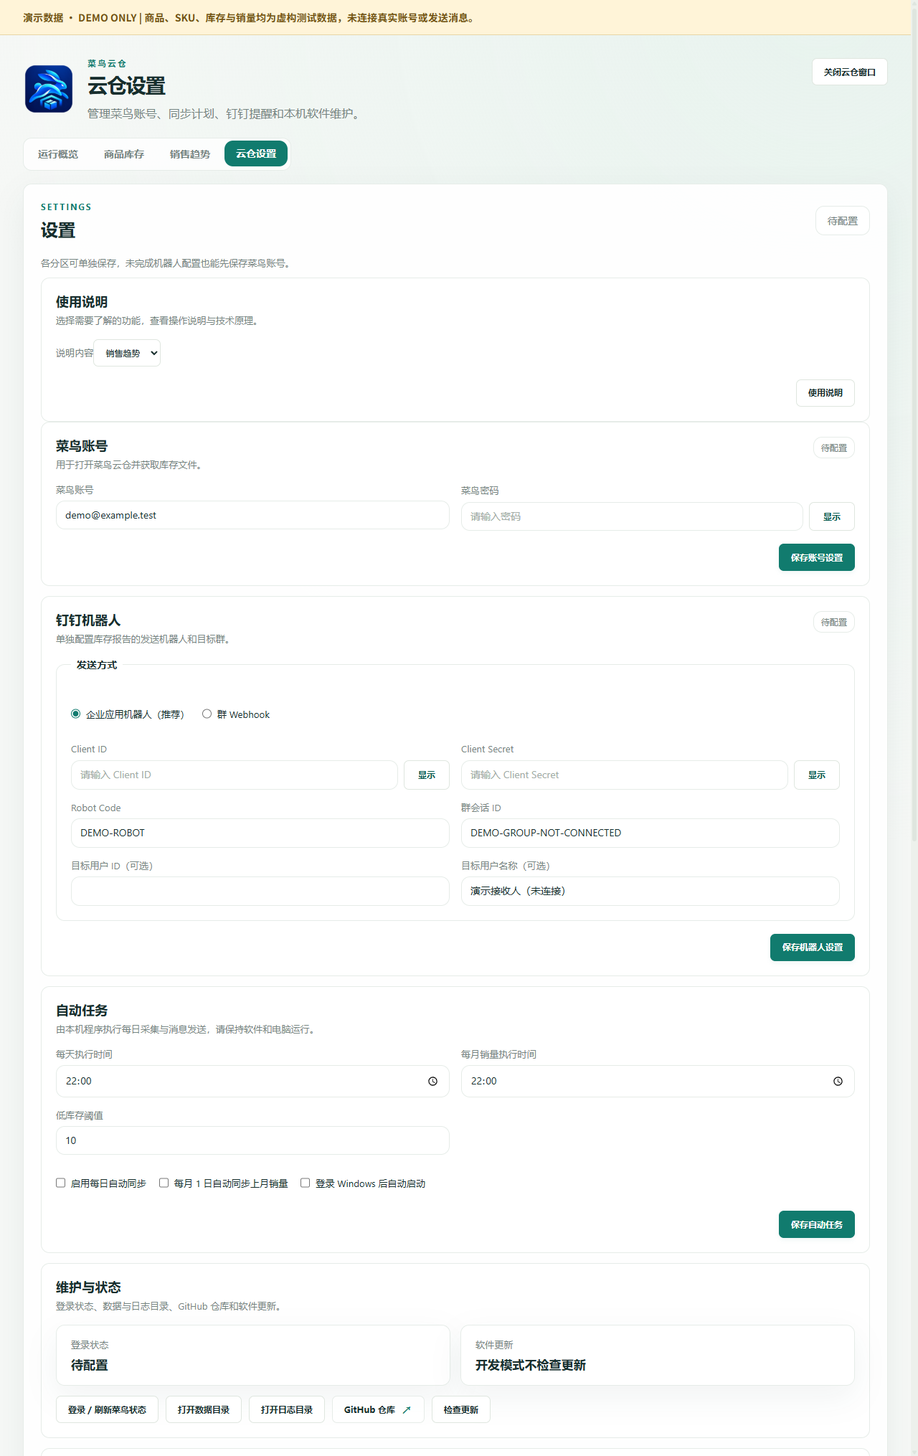
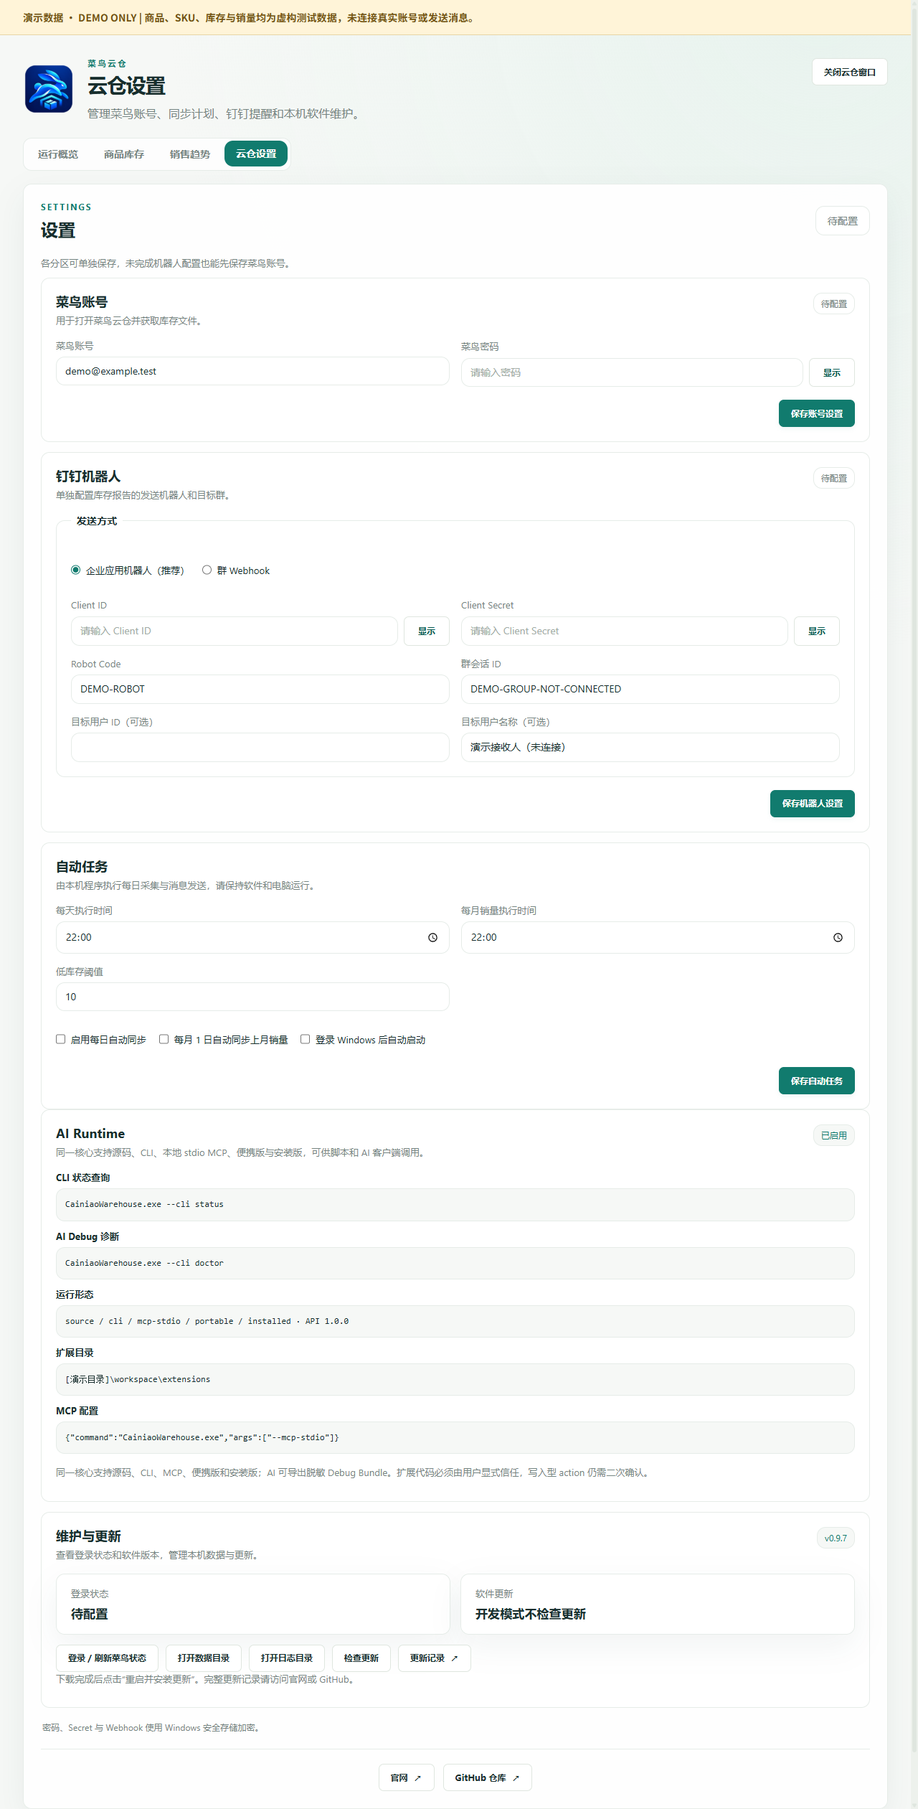
Simplify warehouse settings maintenance updates and official links

diff --git a/windows/workbench/desktop/renderer/index.html b/windows/workbench/desktop/renderer/index.html
@@ -172,20 +172,7 @@
       </div>
       <p class="field-help">各分区可单独保存，未完成机器人配置也能先保存菜鸟账号。</p>
 
-      <section class="settings-card" id="featureHelpSettings">
-        <div class="settings-card-heading"><div><h3>使用说明</h3><p>选择需要了解的功能，查看操作说明与技术原理。</p></div></div>
-        <div class="form-grid">
-          <label>说明内容<select id="featureHelpTopic">
-            <option value="dashboard">运行概览</option>
-            <option value="inventory">商品库存</option>
-            <option value="sales">销售趋势</option>
-            <option value="settings">云仓设置</option>
-          </select></label>
-        </div>
-        <div class="settings-actions"><button class="btn" id="featureManualButton" type="button" aria-haspopup="dialog" aria-controls="featureHelpDialog" title="使用说明与技术原理">使用说明</button></div>
-      </section>
-
-      <div class="daily-connection-card hidden" data-managed-only><h3>连接由工作台统一管理</h3><p>Tailscale 连接与服务器统一在外层工作台设置。采集任务在主服务器执行；员工使用自己的工作台身份访问。</p><button class="btn" type="button" id="dailyBackToWorkbench">返回工作台设置连接</button><p id="legacyConnectionNotice" class="daily-error-note hidden">检测到旧版客户端配置，请返回工作台使用 Tailscale 连接；此处不再设置旧版远程地址。</p></div>
+<div class="daily-connection-card hidden" data-managed-only><h3>连接由工作台统一管理</h3><p>Tailscale 连接与服务器统一在外层工作台设置。采集任务在主服务器执行；员工使用自己的工作台身份访问。</p><button class="btn" type="button" id="dailyBackToWorkbench">返回工作台设置连接</button><p id="legacyConnectionNotice" class="daily-error-note hidden">检测到旧版客户端配置，请返回工作台使用 Tailscale 连接；此处不再设置旧版远程地址。</p></div>
 
       <form id="accountSettingsForm" class="settings-card server-only-settings">
         <div class="settings-card-heading">
@@ -265,24 +252,6 @@
         </div>
       </form>
 
-      <section class="settings-card" id="maintenanceCard">
-        <div class="settings-card-heading">
-          <div><h3>维护与状态</h3><p>登录状态、数据与日志目录、GitHub 仓库和软件更新。</p></div>
-        </div>
-        <div class="maintenance-grid">
-          <article class="summary-card"><span>登录状态</span><strong id="loginState">待刷新</strong></article>
-          <article class="summary-card" data-standalone-update><span>软件更新</span><strong id="updateState">未检查</strong></article>
-        </div>
-        <div class="actions">
-          <button class="btn" id="refreshLogin" type="button">登录 / 刷新菜鸟状态</button>
-          <button class="btn" id="openData" type="button">打开数据目录</button>
-          <button class="btn" id="openLogs" type="button">打开日志目录</button>
-          <button class="repository-link btn" id="openRepository" type="button" title="在默认浏览器中打开 GitHub 仓库">GitHub 仓库 <span aria-hidden="true">↗</span></button>
-          <button class="btn" id="checkUpdate" type="button" data-standalone-update>检查更新</button>
-          <button class="primary hidden btn" id="installUpdate" data-standalone-update>重启并安装更新</button>
-        </div>
-      </section>
-
       <section class="settings-card" id="cloudAiRuntime">
         <div class="settings-card-heading">
           <div><h3>AI Runtime</h3><p>同一核心支持源码、CLI、本地 stdio MCP、便携版与安装版，可供脚本和 AI 客户端调用。</p></div>
@@ -298,47 +267,36 @@
         <p class="field-help">同一核心支持源码、CLI、MCP、便携版和安装版；AI 可导出脱敏 Debug Bundle。扩展代码必须由用户显式信任，写入型 action 仍需二次确认。</p>
       </section>
 
-      <section class="settings-card" data-standalone-update>
+      <section class="settings-card" id="maintenanceCard">
         <div class="settings-card-heading">
-          <div><h3>在线升级</h3><p>正式发布版从公开 GitHub Release 下载更新，无需内置访问凭据。</p></div>
-          <span class="config-state" id="updateCredentialState">检测中</span>
+          <div><h3>维护与更新</h3><p>查看登录状态和软件版本，管理本机数据与更新。</p></div>
+          <span class="config-state ready" id="aboutVersion" aria-label="当前版本">—</span>
         </div>
-        <p class="field-help">软件会自动检查正式发布版本；下载完成后仍由用户点击“重启并安装更新”。</p>
+        <div class="maintenance-grid">
+          <article class="summary-card"><span>登录状态</span><strong id="loginState">待刷新</strong></article>
+          <article class="summary-card" data-standalone-update><span>软件更新</span><strong id="updateState" role="status" aria-live="polite">未检查</strong></article>
+        </div>
+        <div class="actions">
+          <button class="btn" id="refreshLogin" type="button">登录 / 刷新菜鸟状态</button>
+          <button class="btn" id="openData" type="button">打开数据目录</button>
+          <button class="btn" id="openLogs" type="button">打开日志目录</button>
+          <button class="btn" id="checkUpdate" type="button" data-standalone-update>检查更新</button>
+          <button class="primary hidden btn" id="installUpdate" type="button" data-standalone-update>重启并安装更新</button>
+          <button class="btn" id="openReleaseNotes" type="button" data-standalone-update>更新记录 <span aria-hidden="true">↗</span></button>
+        </div>
+        <p class="field-help" data-standalone-update>下载完成后点击“重启并安装更新”。完整更新记录请访问官网或 GitHub。</p>
       </section>
 
-      <section class="settings-card">
-        <div class="settings-card-heading">
-          <div><h3>关于软件 / 迭代历史</h3><p>当前版本与历次迭代记录，方便回溯。</p></div>
-          <span class="config-state ready" id="aboutVersionState">读取中…</span>
-        </div>
-        <div class="integration-grid">
-          <div><strong>版本号</strong><code id="aboutVersion">—</code></div>
-          <div><strong>构建渠道</strong><code id="aboutChannel">—</code></div>
-          <div><strong>提交 / 构建时间</strong><code id="aboutBuild">—</code></div>
-        </div>
-        <div id="changelogList" class="changelog-list" aria-label="迭代历史"></div>
-      </section>
-
-      <p class="security-note">密码、Secret 与 Webhook 使用 Windows DPAPI 加密；内置更新凭据首次启动后也会转存 DPAPI。</p>
+      <p class="security-note">密码、Secret 与 Webhook 使用 Windows 安全存储加密。</p>
+      <footer class="settings-links" id="settingsLinks" aria-label="官方链接">
+        <button class="btn" id="openWebsite" type="button" title="在默认浏览器中打开官网">官网 <span aria-hidden="true">↗</span></button>
+        <button class="btn" id="openRepository" type="button" title="在默认浏览器中打开 GitHub 仓库">GitHub 仓库 <span aria-hidden="true">↗</span></button>
+      </footer>
     </section>
     </div>
   </main>
-  <dialog id="featureHelpDialog" class="feature-help-dialog" aria-labelledby="featureHelpTitle">
-    <header class="feature-help-heading">
-      <h2 id="featureHelpTitle"></h2>
-      <button class="btn" id="featureHelpClose" type="button" aria-label="关闭功能说明">关闭</button>
-    </header>
-    <nav class="feature-help-modes" aria-label="说明内容">
-      <button class="btn" type="button" data-feature-help-mode="manual" aria-pressed="true">说明书</button>
-      <button class="btn" type="button" data-feature-help-mode="principle" aria-pressed="false">技术原理</button>
-    </nav>
-    <div id="featureHelpBody" class="feature-help-body" tabindex="0" aria-label="功能说明正文"></div>
-    <p class="feature-help-footer">可在云仓设置中选择各功能的说明，本地离线可读。阅读不会启动采集、下载或修改业务数据。</p>
-  </dialog>
-  <script src="../../node_modules/gridjs/dist/gridjs.production.min.js"></script>
+<script src="../../node_modules/gridjs/dist/gridjs.production.min.js"></script>
   <script src="../../node_modules/echarts/dist/echarts.min.js"></script>
-  <script src="feature-help-content.js"></script>
-  <script src="feature-help.js"></script>
   <script src="renderer.js"></script>
   <script type="module" src="../shared/loading-screen-auto.mjs"></script>
 </body>

diff --git a/windows/workbench/desktop/renderer/styles.css b/windows/workbench/desktop/renderer/styles.css
@@ -37,22 +37,7 @@ body { margin: 0; min-height: 100vh; overflow-x: hidden; background: radial-grad
 .hero-logo { width: 72px; height: 72px; flex: none; object-fit: contain; }
 @media (max-width: 760px) { .hero-brand { gap: 12px; } .hero-logo { width: 48px; height: 48px; } }
 .hero-actions { display: flex; align-items: center; justify-content: flex-end; flex-wrap: wrap; gap: 10px; }
-.feature-help-dialog { width: min(880px, calc(100vw - 48px)); max-height: calc(100vh - 48px); padding: 24px; border: 1px solid var(--lt-line); border-radius: var(--lt-radius-panel); background: var(--lt-surface); color: var(--lt-ink); box-sizing: border-box; }
-.feature-help-dialog::backdrop { background: color-mix(in srgb,var(--lt-ink) 38%,transparent); }
-.feature-help-heading { display: flex; align-items: center; justify-content: space-between; gap: 16px; }
-.feature-help-heading h2 { margin: 0; font-size: 20px; line-height: 1.5; }
-.feature-help-heading button { flex: none; }
-.feature-help-modes { display: flex; flex-wrap: wrap; gap: 8px; margin: 16px 0; }
-.feature-help-modes [aria-pressed="true"] { color: white; background: var(--lt-brand-strong); border-color: var(--lt-brand-strong); }
-.feature-help-body { max-height: calc(100vh - 270px); overflow-y: auto; padding-right: 10px; font-size: 14px; line-height: 1.9; overflow-wrap: anywhere; }
-.feature-help-intro { color: var(--lt-muted); margin: 0 0 18px; }
-.feature-help-body h3 { margin: 20px 0 8px; font-size: 16px; }
-.feature-help-body ul, .feature-help-body ol { margin: 8px 0; padding-left: 24px; }
-.feature-help-body li { margin-bottom: 8px; }
-.feature-help-warning { border-left: 3px solid var(--lt-brand); padding: 1px 12px 4px; margin-top: 16px; background: var(--lt-surface-page); }
-.feature-help-warning h3 { margin-top: 12px; }
-.feature-help-footer { margin: 16px 0 0; padding-top: 12px; border-top: 1px solid var(--lt-line); color: var(--lt-muted); font-size: 12px; line-height: 1.7; }
-@media (max-width: 760px) { .hero-actions { align-self: flex-end; gap: 6px; } .hero-actions button { padding: 9px 12px; } .feature-help-dialog { width: calc(100vw - 24px); padding: 16px; } .feature-help-heading h2 { font-size: 16px; } .feature-help-body { max-height: calc(100vh - 260px); } }
+@media (max-width: 760px) { .hero-actions { align-self: flex-end; gap: 6px; } .hero-actions button { padding: 9px 12px; } }
 .repository-link { border-color: var(--lt-line); background: color-mix(in srgb,var(--lt-surface) 82%,transparent); color: var(--lt-ink); white-space: nowrap; }
 .repository-link span { color: var(--lt-brand); font-size: 16px; }
 .eyebrow { margin: 0 0 8px; color: var(--lt-brand); font: 700 12px/1.2 "Segoe UI"; letter-spacing: .16em; }
@@ -107,13 +92,6 @@ input:focus { border-color: var(--lt-brand); box-shadow: 0 0 0 3px color-mix(in 
 .integration-grid { display: grid; grid-template-columns: 1fr; gap: 12px; margin-bottom: 16px; }
 .integration-grid strong { display: block; margin-bottom: 7px; font-size: 13px; }
 .integration-grid code { display: block; overflow-wrap: anywhere; border: 1px solid var(--lt-line); border-radius: var(--lt-radius-panel); padding: 12px; background: var(--lt-surface-page); color: var(--lt-ink); font: 12px/1.6 Consolas, monospace; white-space: pre-wrap; }
-.changelog-list { display: flex; flex-direction: column; gap: 14px; max-height: 420px; overflow-y: auto; }
-.changelog-entry { border-left: 3px solid var(--lt-brand); padding: 2px 0 2px 14px; }
-.changelog-head { display: flex; align-items: baseline; justify-content: space-between; gap: 12px; margin-bottom: 6px; }
-.changelog-head strong { font-size: 14px; color: var(--lt-ink); }
-.changelog-head span { flex: none; color: var(--lt-muted); font-size: 12px; }
-.changelog-entry ul { margin: 0; padding-left: 18px; }
-.changelog-entry li { color: var(--lt-muted); font-size: 13px; line-height: 1.7; }
 .switch-row, .mode-tabs { display: flex; flex-wrap: wrap; gap: 18px; margin: 20px 0; }
 .check, .mode-tabs label { display: inline-flex; align-items: center; gap: 8px; color: var(--lt-ink); }
 .check input, .mode-tabs input { width: auto; margin: 0; accent-color: var(--lt-brand); }
@@ -189,5 +167,6 @@ legend { padding: 0 8px; font-weight: 700; color: var(--lt-ink); }
 @media (max-width: 900px) { .sales-chart-grid { grid-template-columns: 1fr; } .sales-controls { grid-template-columns: 1fr 1fr; } .sales-sku-field { grid-column: span 2; } .sales-backfill-panel { align-items: stretch; flex-direction: column; } }
 @media (max-width: 760px) { .summary-grid, .maintenance-grid, .inventory-summary-grid, .sales-summary-grid, .form-grid, .role-choice-grid, .first-run-fields { grid-template-columns: 1fr; } .hero, .form-footer, .section-heading { align-items: stretch; flex-direction: column; } .section-intro { text-align: left; } .shell { width: calc(100% - 24px); padding-top: 24px; } .sales-controls { grid-template-columns: 1fr; } .sales-sku-field { grid-column: auto; } .backfill-controls { align-items: stretch; flex-direction: column; } .sales-due-banner { align-items: stretch; flex-direction: column; } .first-run-overlay { padding: 12px; } .first-run-dialog { padding: 22px; } }
 
-.changelog-heading { margin-top: 24px; }
 .managed-cloud [data-standalone-update] { display: none !important; }
+
+.settings-links { display: flex; justify-content: center; flex-wrap: wrap; gap: 12px; padding-top: 20px; margin-top: 20px; border-top: 1px solid var(--lt-line); }

diff --git a/windows/workbench/desktop/renderer/renderer.js b/windows/workbench/desktop/renderer/renderer.js
@@ -72,40 +72,7 @@ function hydrateIntegration(integration) {
 }
 
 function hydrateAbout(about) {
-  const version = about?.version || "—";
-  const build = about?.build || {};
-  byId("aboutVersion").textContent = `v${version}`;
-  byId("aboutVersionState").textContent = `v${version}`;
-  byId("aboutChannel").textContent = build.channel || "—";
-  const commitText = build.commit && build.commit !== "development" ? `${String(build.commit).slice(0, 12)} · ` : "";
-  const builtText = build.builtAt ? new Date(build.builtAt).toLocaleString("zh-CN", { hour12: false }) : "—";
-  byId("aboutBuild").textContent = commitText + builtText;
-  const list = byId("changelogList");
-  list.replaceChildren();
-  const entries = about?.changelog || [];
-  if (!entries.length) { list.append(Object.assign(document.createElement("p"), { textContent: "暂无迭代记录。" })); return; }
-  for (const entry of entries) {
-    const item = document.createElement("div");
-    item.className = "changelog-entry";
-    const head = document.createElement("div");
-    head.className = "changelog-head";
-    const title = document.createElement("strong");
-    title.textContent = `v${entry.version} · ${entry.title}`;
-    const date = document.createElement("span");
-    date.textContent = entry.date || "";
-    head.append(title, date);
-    item.append(head);
-    if (entry.changes?.length) {
-      const ul = document.createElement("ul");
-      for (const change of entry.changes) {
-        const li = document.createElement("li");
-        li.textContent = change;
-        ul.append(li);
-      }
-      item.append(ul);
-    }
-    list.append(item);
-  }
+  byId("aboutVersion").textContent = 'v' + (about?.version || '—');
 }
 
 function deliveryMode() {
@@ -652,6 +619,12 @@ byId("openRepository").addEventListener("click", async () => {
   try { await api.openRepository(); }
   catch (error) { appendLog({ line: `无法打开 GitHub 仓库：${error.message}` }); }
 });
+for (const [id, open] of [['openWebsite', () => api.openWebsite()], ['openReleaseNotes', () => api.openReleaseNotes()]]) {
+  byId(id).addEventListener('click', async () => {
+    try { await open(); }
+    catch (error) { appendLog({ line: '无法打开外部链接：' + error.message }); }
+  });
+}
 byId("refreshInventory").addEventListener("click", loadInventory);
 byId("refreshMonthlySales").addEventListener("click", loadMonthlySales);
 byId("salesYear").addEventListener("change", () => { byId("salesMonth").value = ""; loadMonthlySales(); });

diff --git a/windows/workbench/tests/desktop-ai-interface.test.js b/windows/workbench/tests/desktop-ai-interface.test.js
@@ -106,5 +106,7 @@ test("CLI login requires an explicit browser confirmation", () => {
 test("desktop repository link is fixed to the official GitHub repository", () => {
   assert.equal(EXTERNAL_LINKS.repository, "https://github.com/907609732/cainiao-inventory");
   assert.equal(externalLink("repository"), EXTERNAL_LINKS.repository);
+  assert.equal(externalLink("website"), "https://lttlt.top");
+  assert.equal(externalLink("releases"), "https://github.com/907609732/cainiao-inventory/releases");
   assert.throws(() => externalLink("unknown"), /不允许打开未知外部链接/);
 });

diff --git a/docs/ui-guide.md b/docs/ui-guide.md
@@ -1,6 +1,6 @@
 # 菜鸟云仓界面与功能演示
 
-本页展示 **0.9.6 独立版**的真实界面。所有图片均在独立临时账本中重新截图，商品、SKU、库存、销量和账号全部由测试脚本构造，未读取正式账本或使用用户提供的业务截图。每张图顶部都有“演示数据 · DEMO ONLY”标识。
+本页展示 **0.9.7 开发版（尚未发布安装包）**的真实界面。所有图片均在独立临时账本中重新截图，商品、SKU、库存、销量和账号全部由测试脚本构造，未读取正式账本或使用用户提供的业务截图。每张图顶部都有“演示数据 · DEMO ONLY”标识。
 
 ## 演示数据说明
 
@@ -82,15 +82,18 @@
 
 ![云仓设置节选——演示账号、空密钥、关闭的自动任务](images/ui-demo/settings.png)
 
-截图节选到“维护与状态”区域，覆盖以下功能：
+截图节选到设置底部的官方链接区域，覆盖以下功能：
 
 | 分区 | 可做什么 |
 | --- | --- |
-| 使用说明 | 按功能查看操作说明与技术原理 |
 | 菜鸟账号 | 单独保存登录账号与密码；首次登录、验证码或登录失效可能需要人工处理 |
 | 钉钉机器人 | 选择企业应用机器人或群 Webhook，配置接收目标和可选提醒对象 |
 | 自动化任务 | 设置每日执行时间、每月上月销量任务、库存阈值和 Windows 登录后启动 |
-| 维护与状态 | 刷新登录状态，打开数据或日志目录，访问仓库并检查软件更新 |
+| AI Runtime | 查看 CLI、MCP 和诊断配置；截图中的本机路径为演示占位 |
+| 维护与更新 | 集中显示登录状态、当前版本及更新状态，打开数据或日志目录，检查或安装已就绪的更新 |
+| 官方链接 | 访问官网或 GitHub 仓库；“更新记录”直接打开 GitHub Releases |
+
+应用内已移除“使用说明”以及单独的“在线升级”“关于软件 / 迭代历史”卡片。完整记录在官网或 GitHub 查看；仓库仍保留可独立阅读的[功能文档](../windows/workbench/docs/feature-manual.md)。
 
 各分区可单独保存。演示账号为 demo@example.test，机器人代码和群 ID 也带有 DEMO 标记，所有密码、Client ID、Client Secret、Webhook 和 Secret 均为空。
 

diff --git a/README.md b/README.md
@@ -6,6 +6,8 @@
 
 当前版本为 **0.9.6**，已通过全新安装、0.9.5 升级及工作台共存验收。菜鸟云仓与五成电子商务工作台是两款独立软件，分别安装、配置和卸载。
 
+源码中的 0.9.7 设置页已移除使用说明，并合并维护、版本和更新区域；尚未发布安装包。
+
 ## 下载
 
 [下载 0.9.6 Windows x64 安装器（约 125 MiB）](https://github.com/907609732/cainiao-inventory/releases/download/v0.9.6/CainiaoWarehouse-Setup-0.9.6-x64.exe) · [发布及测试记录](https://github.com/907609732/cainiao-inventory/releases/tag/v0.9.6)
@@ -29,13 +31,13 @@
 | 运行概览 | 查看任务状态、日志，按配置同步并发送 |
 | 商品库存 | 查看已保存库存、筛选预警商品和补货需求 |
 | 销售趋势 | 查看云仓月度出库销量、排名及趋势 |
-| 云仓设置 | 配置菜鸟登录、钉钉目标及自动化，查看使用说明 |
+| 云仓设置 | 配置菜鸟登录、钉钉目标及自动化，集中维护与更新 |
 
 刷新库存与统计只读取已保存数据。云仓销量不等于店铺销售额，缺失月份不能当作零销量。
 
 ## 界面预览（全部为虚构测试数据）
 
-以下截图从 0.9.6 独立版真实界面重新生成，使用 8 个 DEMO 商品和独立临时账本。未读取正式业务数据，未使用用户业务截图；账号为测试占位，密码与密钥均留空。每张图片均标有“演示数据”。
+以下截图从 0.9.7 开发版真实界面重新生成，使用 8 个 DEMO 商品和独立临时账本。未读取正式业务数据，未使用用户业务截图；账号为测试占位，密码与密钥均留空。每张图片均标有“演示数据”。
 
 ### 运行概览
 
@@ -57,7 +59,7 @@
 
 ### 云仓设置
 
-分别配置菜鸟账号、钉钉机器人和自动任务，查看使用说明、维护入口及更新状态。截图为设置页节选，所有密钥为空。
+分别配置菜鸟账号、钉钉机器人和自动任务，集中查看登录状态、当前版本及软件更新。底部提供官网与 GitHub 仓库入口，完整更新记录通过外部页面查看。截图为设置页节选，所有密钥为空。
 
 ![云仓设置——测试账号与空密钥](docs/images/ui-demo/settings.png)
 

diff --git a/windows/README.md b/windows/README.md
@@ -1,8 +1,8 @@
-# Windows 菜鸟云仓 0.9.6
+# Windows 菜鸟云仓
 
 0.9.3、0.9.4 已因安装身份冲突撤回。安装修复版前，已发生覆盖的电脑应先恢复工作台；不要直接运行旧云仓卸载程序。
 
-当前独立云仓安装版为 0.9.6，已通过全新安装、0.9.5 升级和工作台共存验收：[下载安装器及校验文件](https://github.com/907609732/cainiao-inventory/releases/tag/v0.9.6)。[验收范围及签名限制](../docs/release-v0.9.6.md)。
+当前源码为 0.9.7 开发版，设置页已合并维护与更新，尚未发布安装包。当前独立云仓安装版为 0.9.6，已通过全新安装、0.9.5 升级和工作台共存验收：[下载安装器及校验文件](https://github.com/907609732/cainiao-inventory/releases/tag/v0.9.6)。[验收范围及签名限制](../docs/release-v0.9.6.md)。
 
 ## 开发启动
 

diff --git a/windows/workbench/docs/feature-manual.md b/windows/workbench/docs/feature-manual.md
@@ -1,6 +1,6 @@
 # 菜鸟云仓功能说明书与技术原理
 
-本文由 desktop/renderer/feature-help-content.js 生成，与云仓设置中的使用说明 / 技术原理共用内容源。维护时修改该文件，再运行 npm run docs:features。平台步骤来自用户截图，实现说明来自当前源码；不代表真实平台自动下载已经验收。
+本文由 desktop/renderer/feature-help-content.js 生成，作为仓库中的独立功能文档；应用内不再展示使用说明。维护时修改该文件，再运行 npm run docs:features。平台步骤来自用户截图，实现说明来自当前源码；不代表真实平台自动下载已经验收。
 
 ## 云仓同步
 
